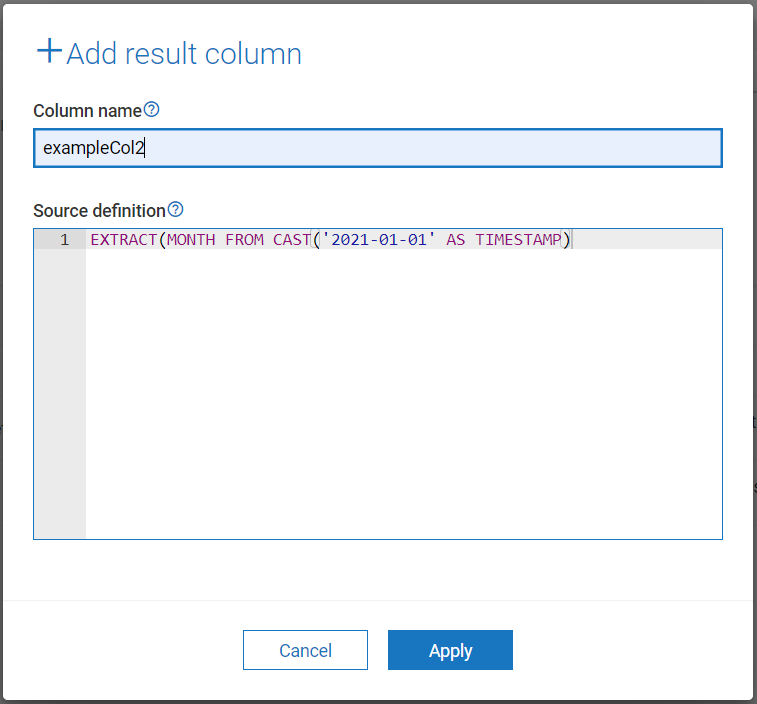
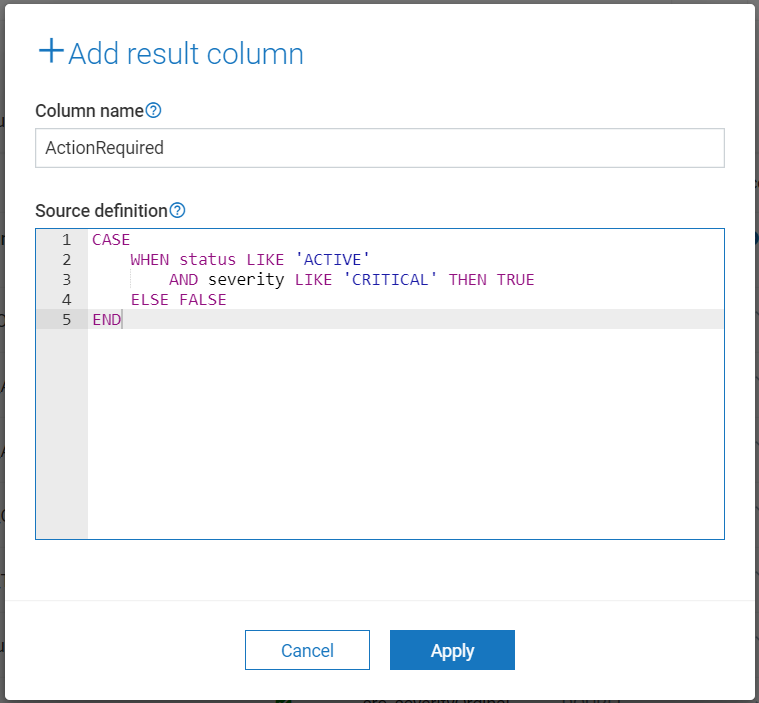
BF-7682: update addtl col screenshot & add best practice

diff --git a/content/datahub/working-with-datahub-bundle/datahub-best-practices.md b/content/datahub/working-with-datahub-bundle/datahub-best-practices.md
@@ -66,3 +66,9 @@ or, to offload all data received by the platform after 2020-02-08 14:00:00.000, 
 ```
 src."creationTime"."date" > {ts '2020-02-08 14:00:00.000'}
 ```
+
+### Querying additional data with DataHub
+
+Main use-case of DataHub is to offload data from the internal Cumulocity IoT database to a data lake and query the data lake contents afterwards. In some use cases DataHub is required to query additional data which is not kept in the Cumulocity IoT database. For a cloud environment, the additional data must be provided as Parquet files and must be located in the specific bucket of the data lake as configured in the offloading settings of DataHub. The Parquet files must not be in folders that are used as target tables for offloadings as this would corrupt query processing of DataHub. The Parquet files themselves must be compliant with the [https://docs.dremio.com/data-formats/parquet-files/](Dremio limitations for Parquet files).
+
+For a dedicated environment, the additional data can be located somewhere else, provided it can be accessed via Dremio, e.g. in a relational database. For performance and cost reasons, however, data and processing should always be colocated.
